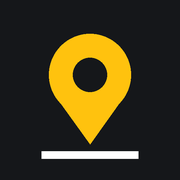
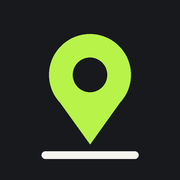
Add files via upload

Changed region(s): [[0.25, 0.1667, 0.75, 0.8056], [0.2222, 0.8333, 0.7778, 0.8889]]

diff --git a/index.html b/index.html
@@ -3,7 +3,7 @@
 <head>
 <meta charset="utf-8">
 <meta name="viewport" content="width=device-width, initial-scale=1, viewport-fit=cover">
-<meta name="theme-color" content="#15171A">
+<meta name="theme-color" content="#17191C">
 <meta name="apple-mobile-web-app-capable" content="yes">
 <meta name="apple-mobile-web-app-status-bar-style" content="black">
 <title>Inspeção de Obra</title>
@@ -35,6 +35,7 @@
     <p class="erro" id="codigo-erro" hidden></p>
     <div class="cresce"></div>
     <button class="btn primario" type="submit">Continuar</button>
+    <p class="credito"><svg class="sami-simbolo" viewBox="0 0 24 24" aria-hidden="true"><path d="M5 19 12 6.2 19 19" fill="none" stroke="currentColor" stroke-width="3.2" stroke-linecap="round" stroke-linejoin="round"/><path d="M12 13.4 15.1 18.6H8.9Z" fill="#B8F34A" stroke="none"/></svg><span>Desenvolvido por <b>SAMI</b></span></p>
   </form>
 </section>
 
@@ -84,6 +85,7 @@
       Relatórios e envios
       <span class="contador-inline" id="inicio-pend" hidden></span>
     </button>
+    <p class="credito"><svg class="sami-simbolo" viewBox="0 0 24 24" aria-hidden="true"><path d="M5 19 12 6.2 19 19" fill="none" stroke="currentColor" stroke-width="3.2" stroke-linecap="round" stroke-linejoin="round"/><path d="M12 13.4 15.1 18.6H8.9Z" fill="#B8F34A" stroke="none"/></svg><span>Desenvolvido por <b>SAMI</b></span></p>
   </form>
 </section>
 
@@ -286,6 +288,7 @@
         <button type="button" class="btn link" id="btn-trocar-codigo">Trocar código da equipe</button>
       </div>
     </div>
+    <p class="credito" id="credito-cfg"><svg class="sami-simbolo" viewBox="0 0 24 24" aria-hidden="true"><path d="M5 19 12 6.2 19 19" fill="none" stroke="currentColor" stroke-width="3.2" stroke-linecap="round" stroke-linejoin="round"/><path d="M12 13.4 15.1 18.6H8.9Z" fill="#B8F34A" stroke="none"/></svg><span>Desenvolvido por <b>SAMI</b></span></p>
   </div>
 </section>
 

diff --git a/css/app.css b/css/app.css
@@ -1,17 +1,17 @@
 :root {
-  --ink: #15171A;
-  --ground: #F2F1EC;
+  --ink: #17191C;
+  --ground: #F5F3EE;
   --branco: #FFFFFF;
   --muted: #4A4F57;
   --line: #D3D1C8;
   --line2: #C9C6BC;
   --soft: #E3E1D9;
-  --amarelo: #FFC20E;
-  --amarelo-suave: #FFF6D6;
-  --dark: #0E1013;
-  --dark2: #1F242B;
-  --dark3: #1B2027;
-  --muted-dark: #B8BDC4;
+  --amarelo: #B8F34A;
+  --amarelo-suave: #EEF9D9;
+  --dark: #17191C;
+  --dark2: #23262B;
+  --dark3: #1E2125;
+  --muted-dark: #9A9FA7;
   --laranja: #C2410C;
   --laranja-vivo: #FF8A3D;
   --verde: #3DDC84;
@@ -301,3 +301,8 @@ input:focus-visible, textarea:focus-visible, button:focus-visible { outline: 3px
 .item-video .acoes button { flex: 1; min-height: 44px; border-radius: 10px; font-size: 15px; font-weight: 700; border: 2px solid var(--ink); background: #fff; }
 .item-video .acoes button.perigo { border-color: var(--line2); color: var(--laranja); }
 @media (prefers-reduced-motion: reduce) { .rec-ponto { animation: none; } }
+
+/* ---------- crédito ---------- */
+.credito { margin: 4px 0 0; display: flex; align-items: center; justify-content: center; gap: 6px; font-size: 12px; letter-spacing: .03em; color: var(--muted); }
+.credito b { font-weight: 700; letter-spacing: .08em; color: var(--ink); }
+.credito .sami-simbolo { width: 15px; height: 15px; color: var(--ink); }

diff --git a/js/config.js b/js/config.js
@@ -3,5 +3,5 @@
 window.APP_CONFIG = {
   apiUrl: 'https://script.google.com/macros/s/AKfycbzFMWVEyNtZIS3JKrtDV4B_pyRgCSAptZ8Un7ZDmBUlbNLEtxJkf0RnNW2-DWnCfAKb/exec',
   limiteFaixaPadrao: 40, // metros; o valor da aba Config da planilha tem prioridade
-  versao: '1.2.0',
+  versao: '1.2.1',
 };

diff --git a/js/app.js b/js/app.js
@@ -9,7 +9,7 @@ import {
 
 const CFG = window.APP_CONFIG || {};
 const $ = (id) => document.getElementById(id);
-const AMARELO = '#FFC20E';
+const AMARELO = '#B8F34A'; // verde-lima (destaque da estaca na legenda)
 const LARANJA = '#FF8A3D';
 
 const LISTAS_PADRAO = {

diff --git a/sw.js b/sw.js
@@ -1,5 +1,5 @@
 // Service worker: guarda o app no celular para abrir e funcionar sem sinal.
-const VERSAO = 'inspecao-v1.2.0';
+const VERSAO = 'inspecao-v1.2.1';
 const ARQUIVOS = [
   './',
   'index.html',
